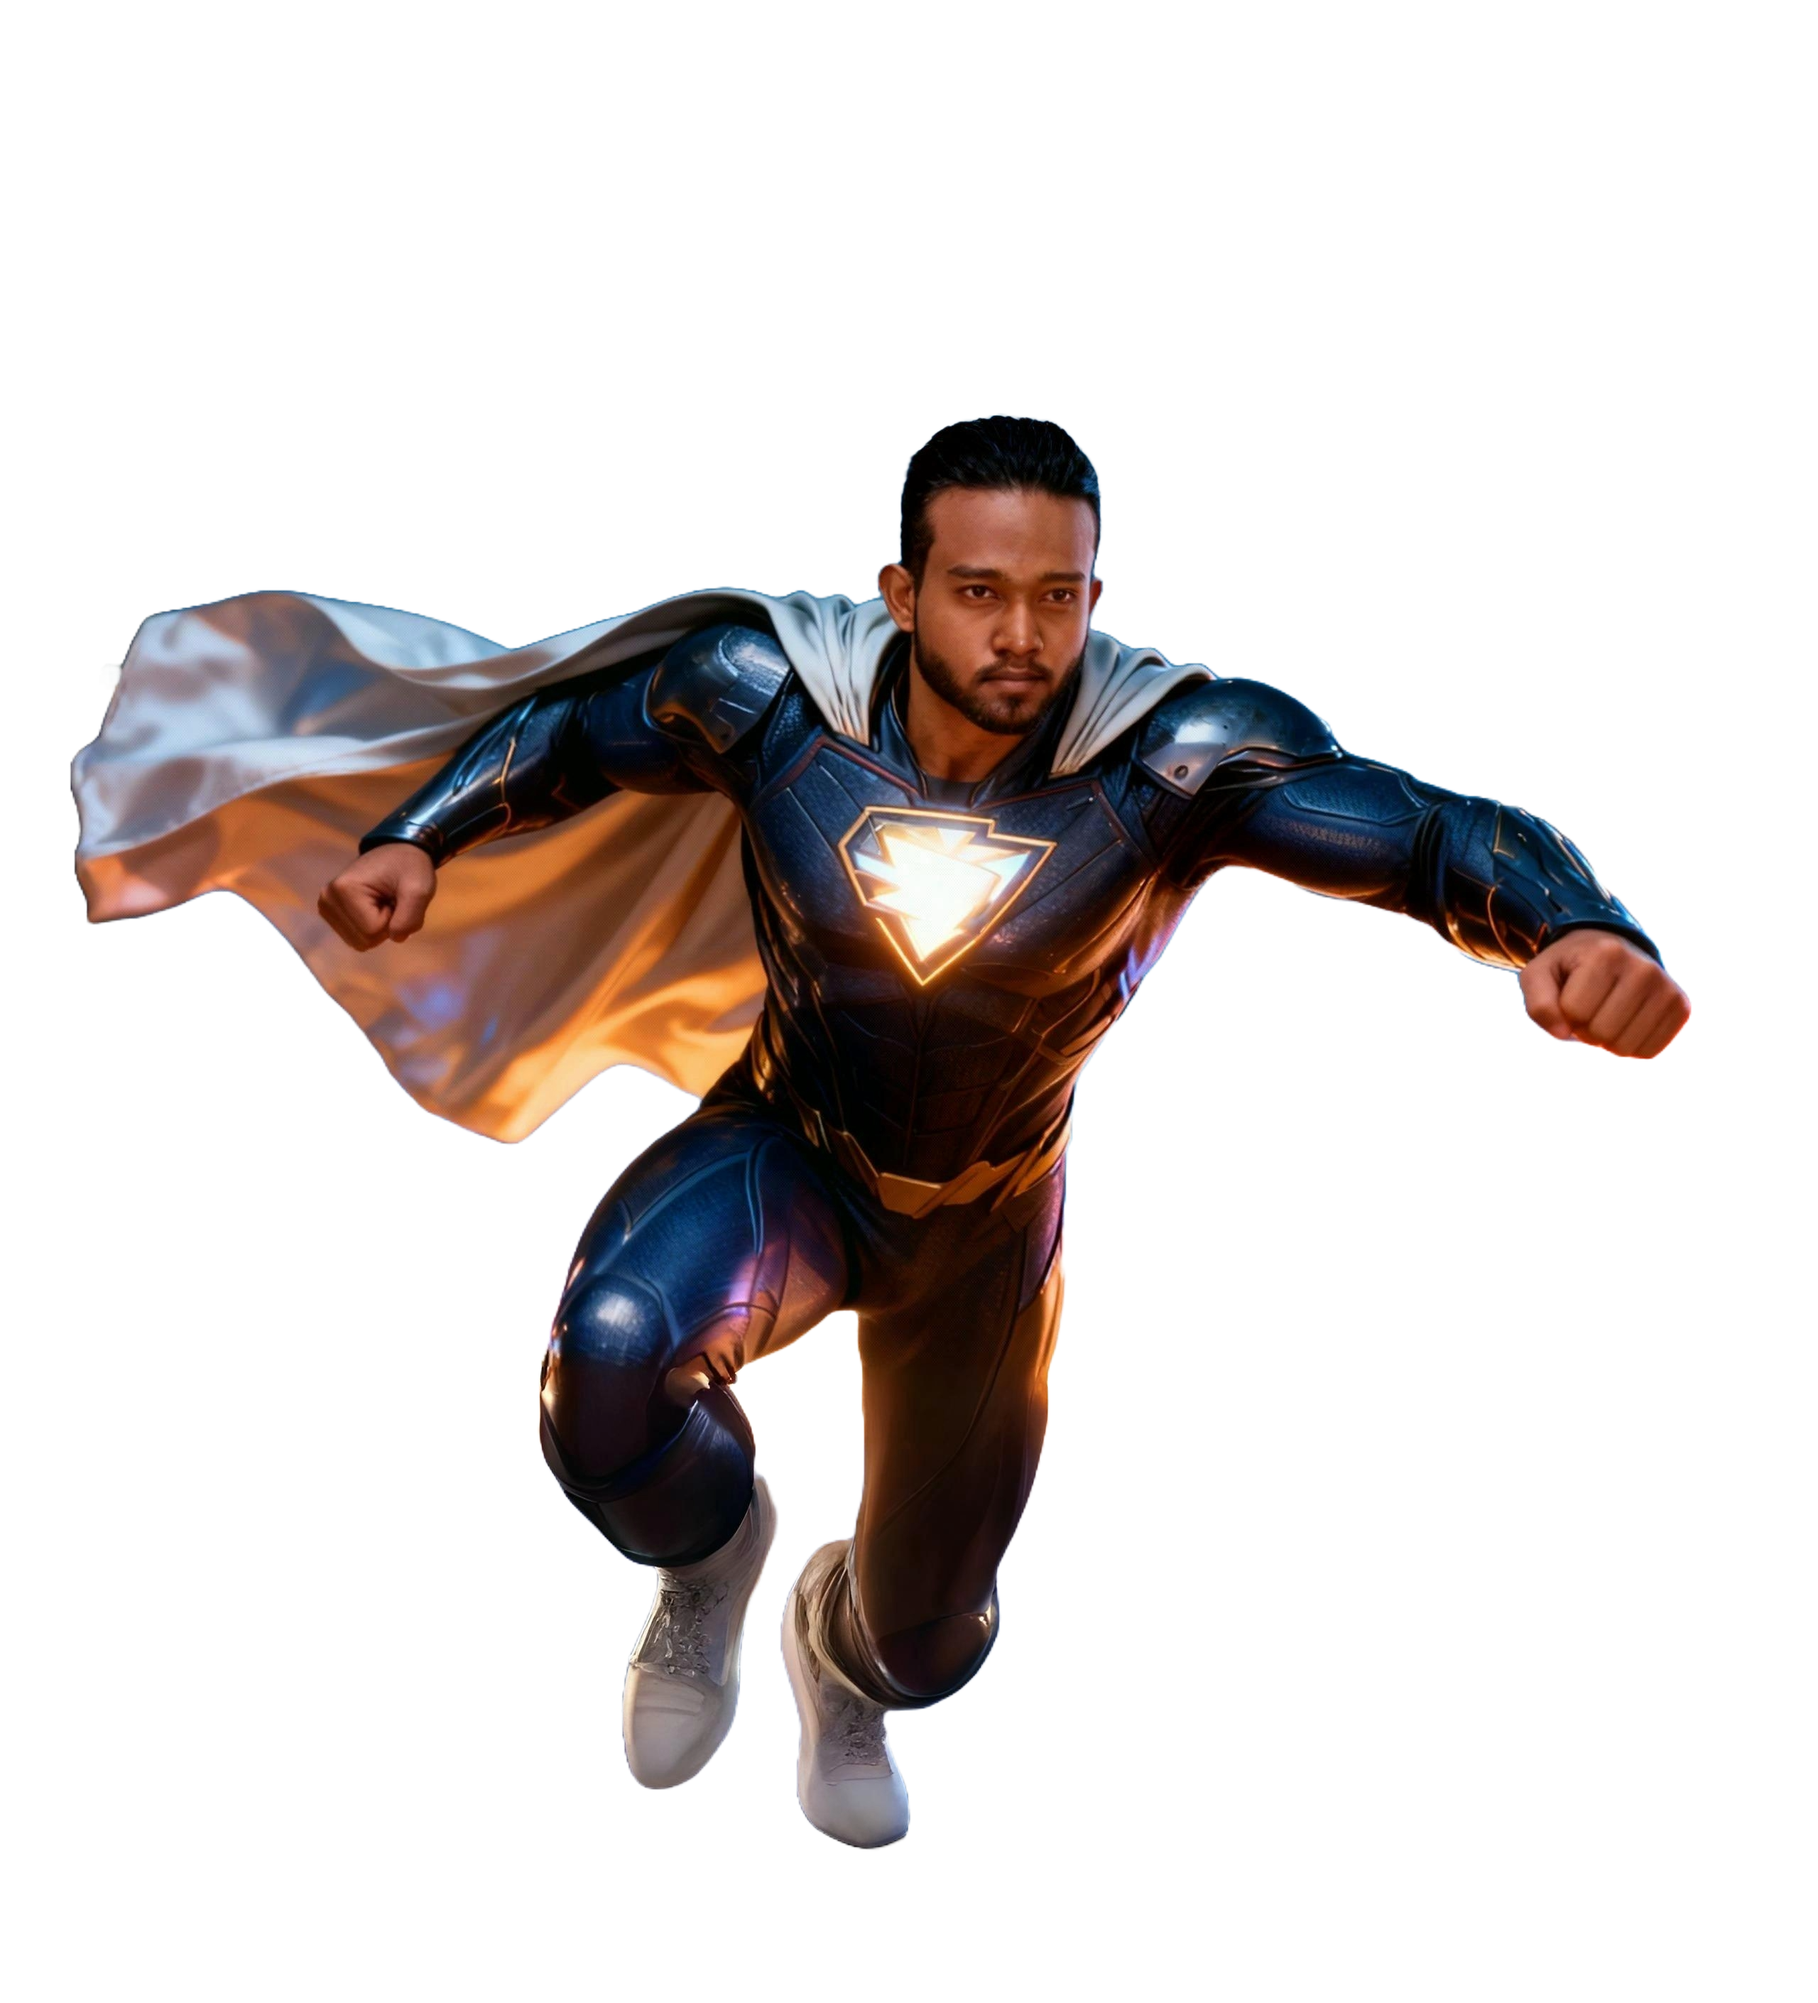
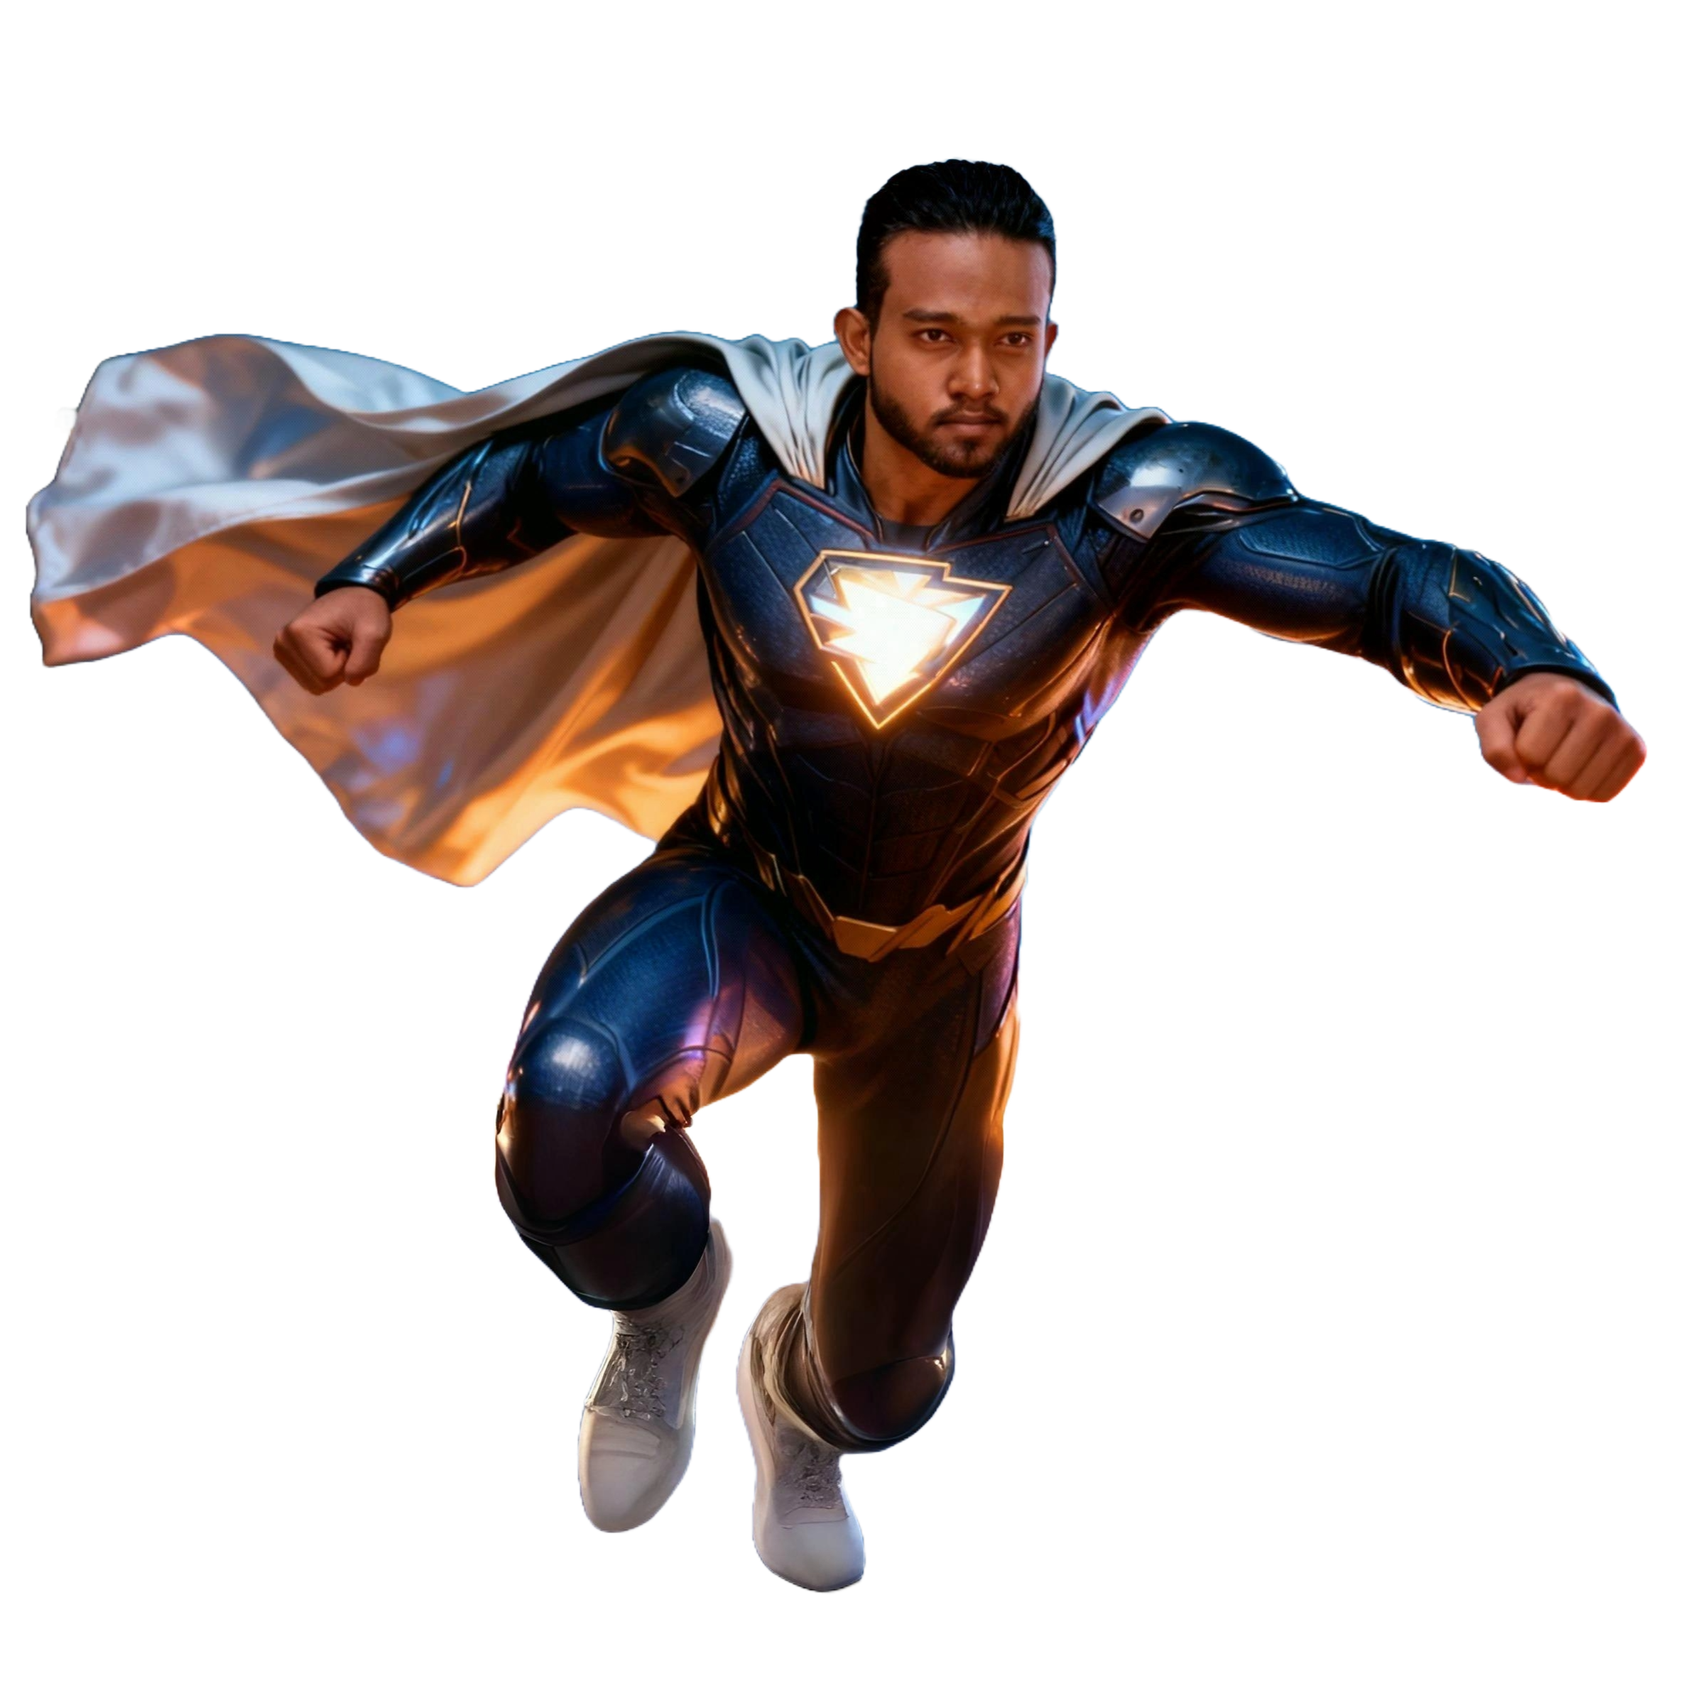
Minor changes

Changed region(s): [[0.0, 0.0928, 0.9904, 0.9594]]

diff --git a/src/sections/Home.jsx b/src/sections/Home.jsx
@@ -195,12 +195,14 @@ useEffect(() => {
     <div className="relative hidden lg:block">
 
     <div
-    className ="absolute top-1/2 -translate-y-1/2 pointer-events-none"
+    className ="absolute pointer-events-none -z-10"
     style={{
-      right: "-1px",
+      top: "calc(50% - 20px)",
+      right: "calc(-110px + min(55vw,780px)/2 - min(22vw, 410px)/2)",
+      transform: "translateY(-65%)",
       width: "min(22vw, 410px)" , height : "min(40vh, 760px)" ,borderRadius :"50%",
       filter: "blur(38px)",opacity :0.32,
-      background : "conic-gradient(from 0deg, #1cd8d2, #00bf8f, #302b63, #1cd8d2)"
+      background : "conic-gradient(from 0deg, #ff6b35, #f7931e, #ffcc02, #ff6b35)"
     }}
     
     />
@@ -208,7 +210,7 @@ useEffect(() => {
       <img src={avatar} alt="SithumW"
       className="absolute top-1/2 -translate-y-1/2 object-contain select-none pointer-events-none"
       style={{
-        right :"-40px", width: "mon(55vw,780px)", maxHeight :"90vh"
+        right :"-40px", width: "mon(55vw,780px)", maxHeight :"90vh", bottom:"10px"
 
       }}
       initial={{opacity:0, y:40, scale:0.98}}
